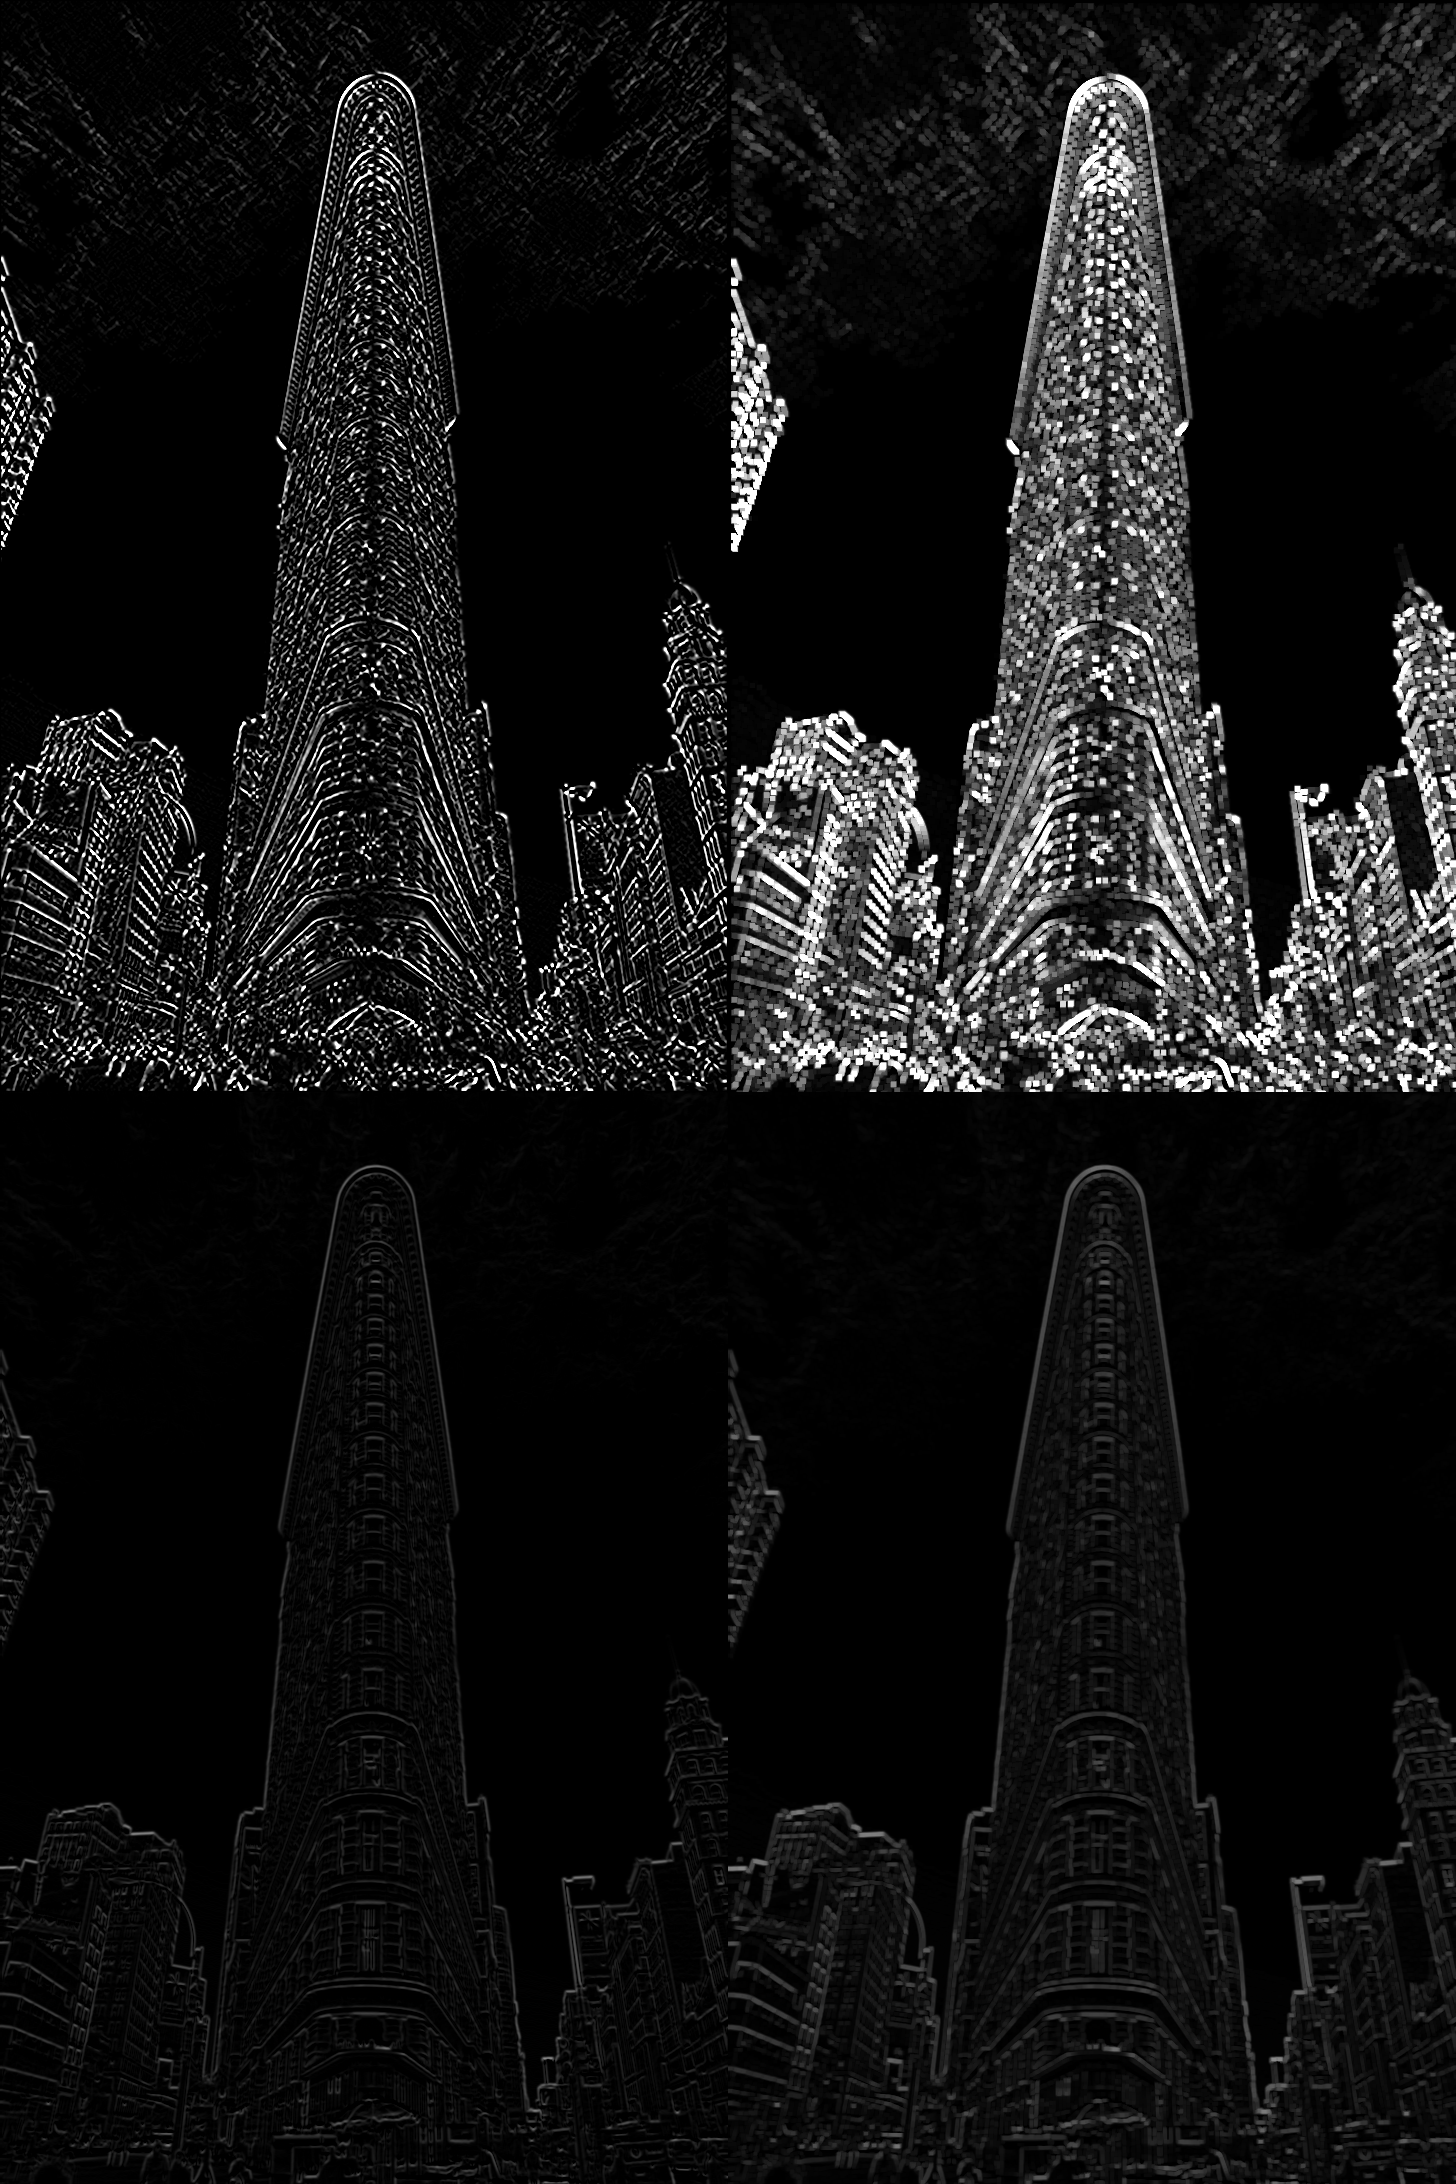
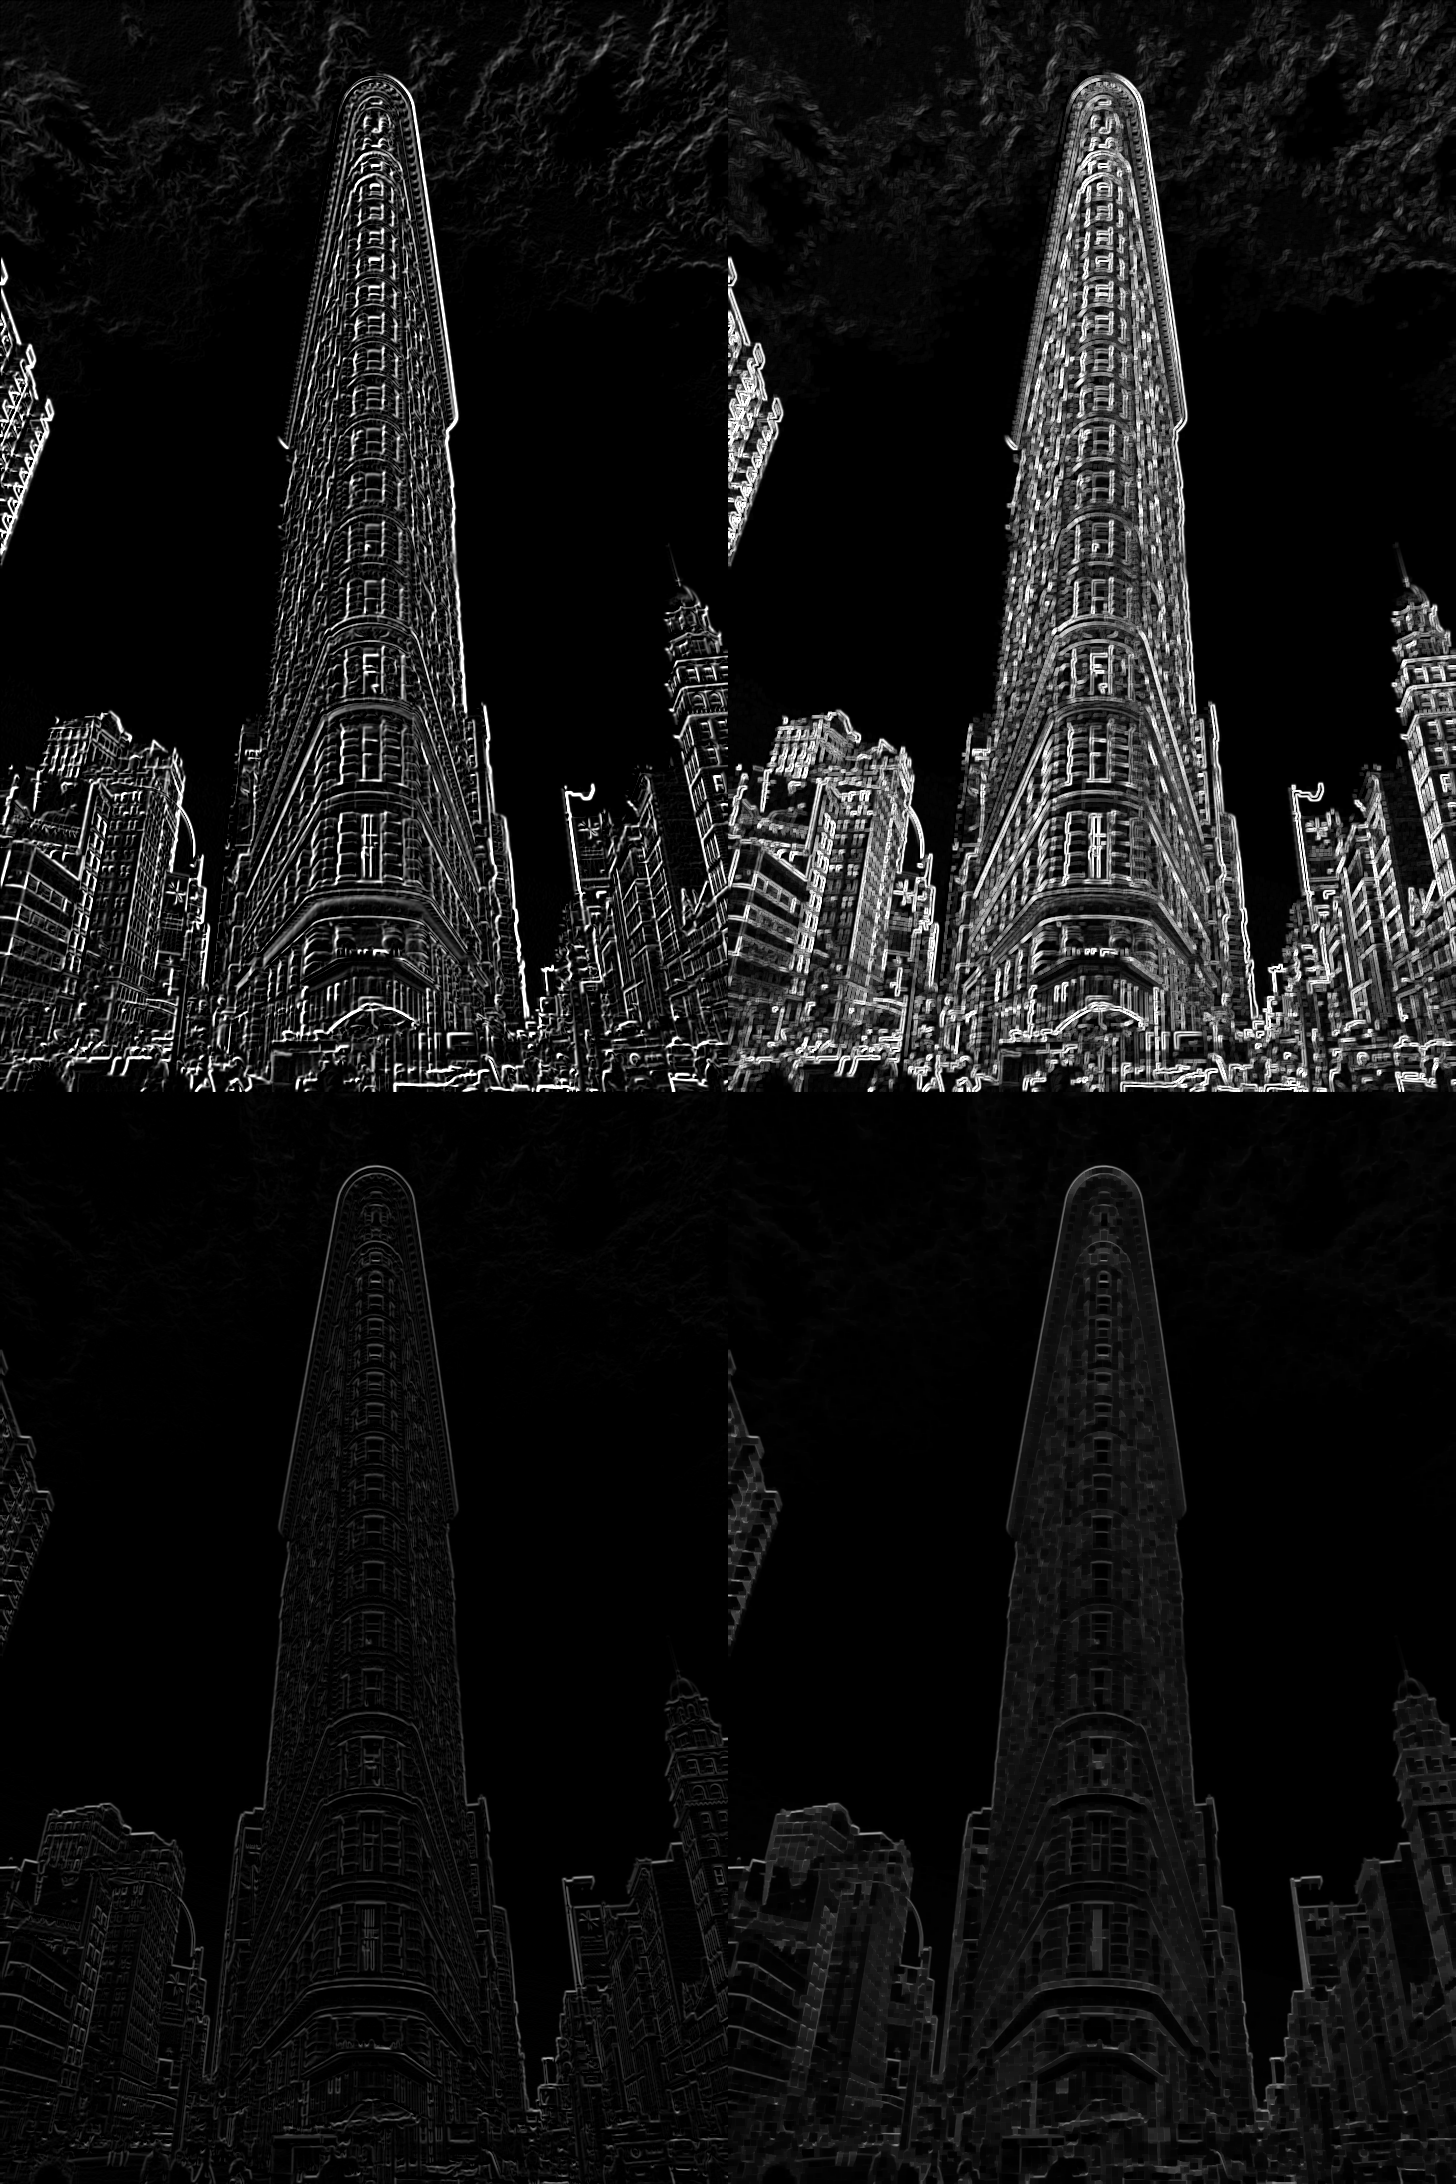
Fixed edge detection results

diff --git a/exercise2_edge_detection.cpp b/exercise2_edge_detection.cpp
@@ -44,11 +44,11 @@ void load_images(string path, string imageType)
 void write_label(string text, cv::Mat &img){
     cv::putText(img, text, cv::Point(5, img.rows -40), cv::FONT_HERSHEY_DUPLEX, 1.0, CV_RGB(255, 255, 255), 4);
 }
-void get_edges(cv::Mat img, bool with_labels)
-{
+
+void get_edges(cv::Mat img, bool with_labels){
     cv::Mat filtered;
-    cv::GaussianBlur(img, filtered, cv::Size(5, 5), img.type());
-    cv::Mat sobel, canny, prewitx, prewity, robertsx, robertsy;
+    cv::GaussianBlur(img, filtered, cv::Size(3, 3), img.type());
+    cv::Mat sobel, sobelx, sobely, canny, prewitx, prewity, robertsx, robertsy;
 
     cv::filter2D(filtered, prewitx, -1, prewit_kernelx);
     cv::filter2D(filtered, prewity, -1, prewit_kernely);
@@ -56,8 +56,10 @@ void get_edges(cv::Mat img, bool with_labels)
     cv::filter2D(filtered, robertsx, -1, roberts_kernelx);
     cv::filter2D(filtered, robertsy, -1, roberts_kernely);
 
-    cv::Sobel(filtered, sobel, CV_8U, 1, 1, 5);
-    cv::Canny(img, canny, 100, 200, 3, false);
+    cv::Sobel(filtered, sobelx, CV_8U, 1, 0, 3);
+    cv::Sobel(filtered, sobely, CV_8U, 0, 1, 3);
+    sobel = sobelx + sobely;
+    cv::Canny(filtered, canny, 100, 200, 3, false);
 
     cv::Mat prewit = (prewitx + prewity);
     cv::Mat roberts =  (robertsx + robertsy);
@@ -98,17 +100,15 @@ void display_edges(bool write_result){
 void enhance_sobel_eddges(cv::Mat img, int kernelSize){
     cv::Mat enhancedImg;
     cv::Mat structuringElement = cv::getStructuringElement(cv::MORPH_RECT,cv::Size(kernelSize, kernelSize));
-    cv::morphologyEx(img,enhancedImg, cv::MORPH_OPEN,structuringElement,cv::Point(-1,-1),1);
-    cv::dilate(enhancedImg,enhancedImg, structuringElement,cv::Point(-1,-1),3);
-    cv::morphologyEx(enhancedImg,enhancedImg, cv::MORPH_OPEN,structuringElement,cv::Point(-1,-1),1);
-    //imshow("Sobel Enhanced", enhancedImg);
+    cv::morphologyEx(img,enhancedImg, cv::MORPH_GRADIENT,structuringElement);
     enhanced_sobel.push_back(enhancedImg);
 }
 
 void enhance_robert_edges(cv::Mat img, int kernelSize){
     cv::Mat enhancedImg;
     cv::Mat structuringElement = cv::getStructuringElement(cv::MORPH_RECT,cv::Size(kernelSize, kernelSize));
-    cv::dilate(img,enhancedImg,structuringElement, cv::Point(-1,-1),2);
+    cv::morphologyEx(img,enhancedImg, cv::MORPH_GRADIENT,structuringElement,cv::Point(-1,-1),1);
+    cv::morphologyEx(img,enhancedImg, cv::MORPH_CLOSE,structuringElement,cv::Point(-1,-1),2);
     enhanced_roberts.push_back(enhancedImg);
 }
 
@@ -137,8 +137,8 @@ int main(){
     display_edges(false);
 
     for(int i=0; i<images.size(); i++){
-        enhance_sobel_eddges(sobel_list[i],2);
-        enhance_robert_edges(roberts_list[i],2);
+        enhance_sobel_eddges(sobel_list[i],3);
+        enhance_robert_edges(roberts_list[i],3);
     }
     display_enhaced_edges(true);
 
